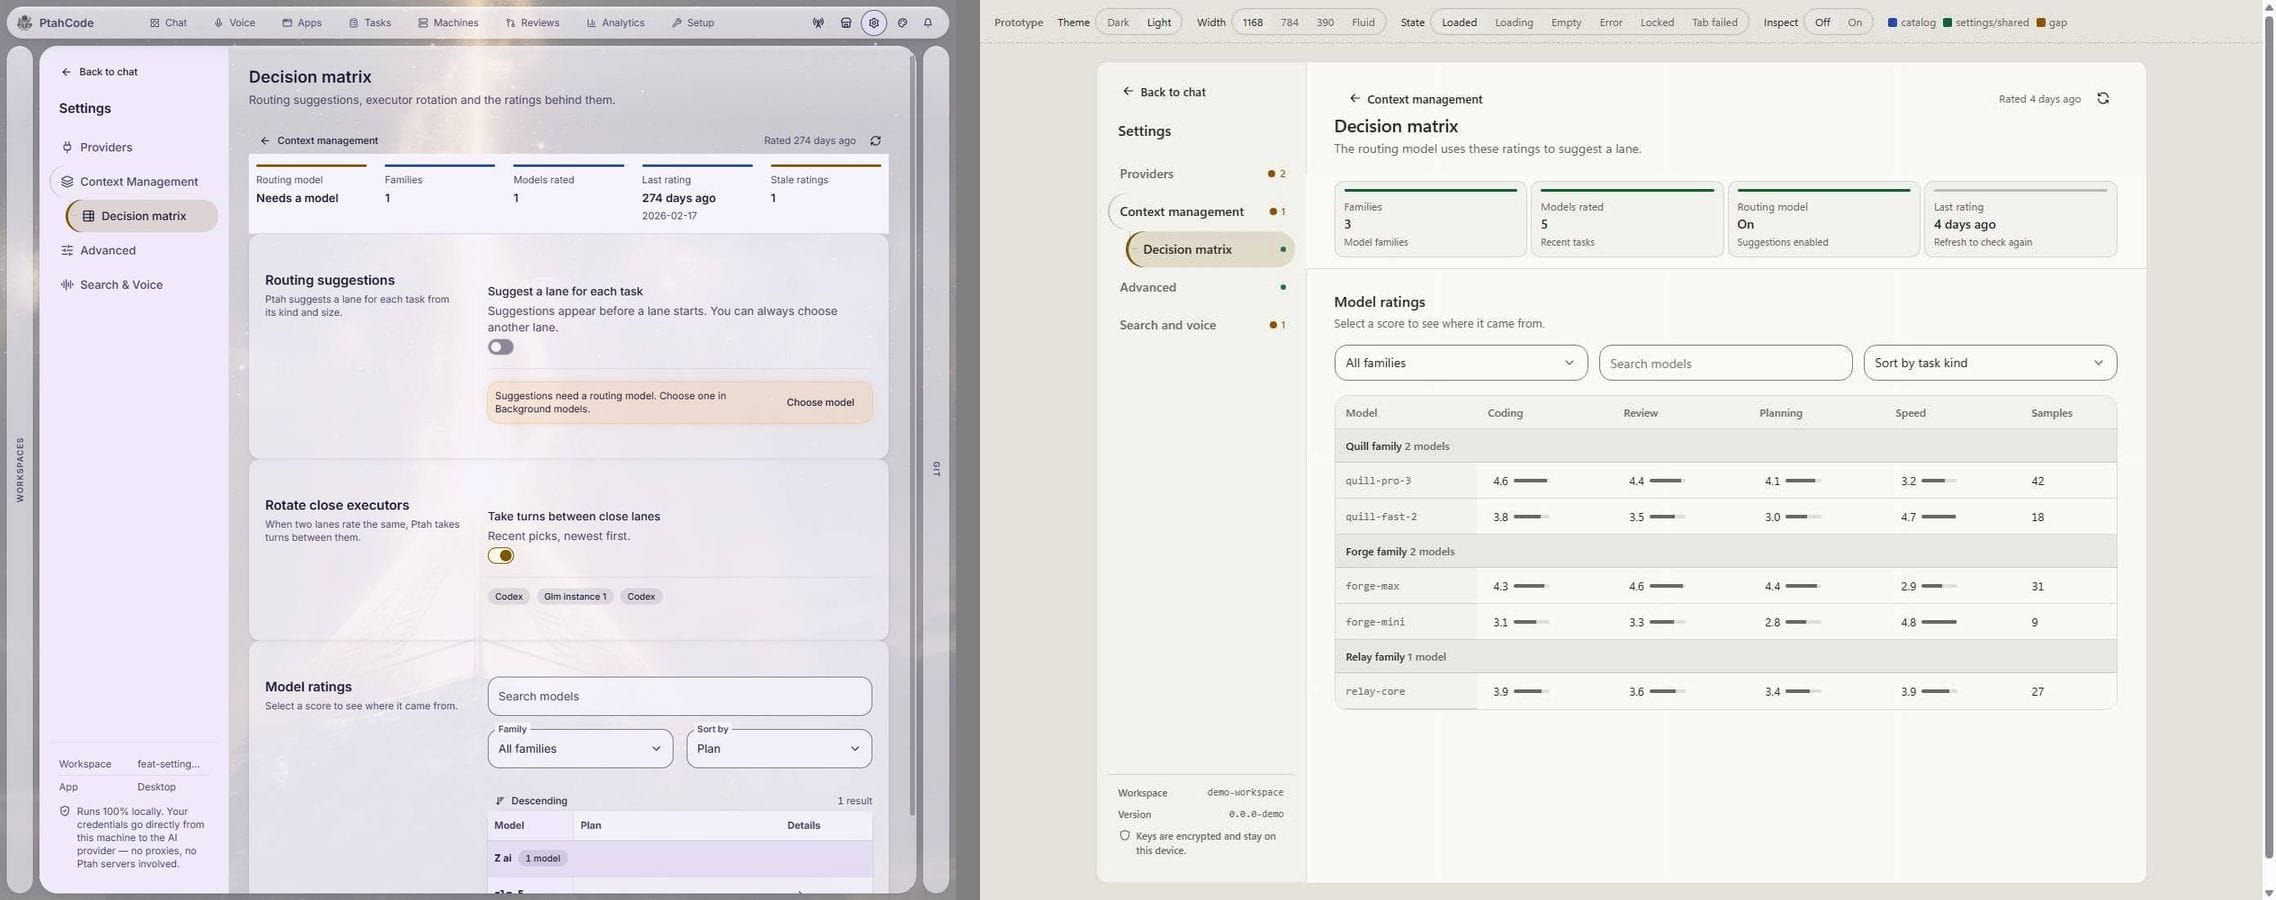
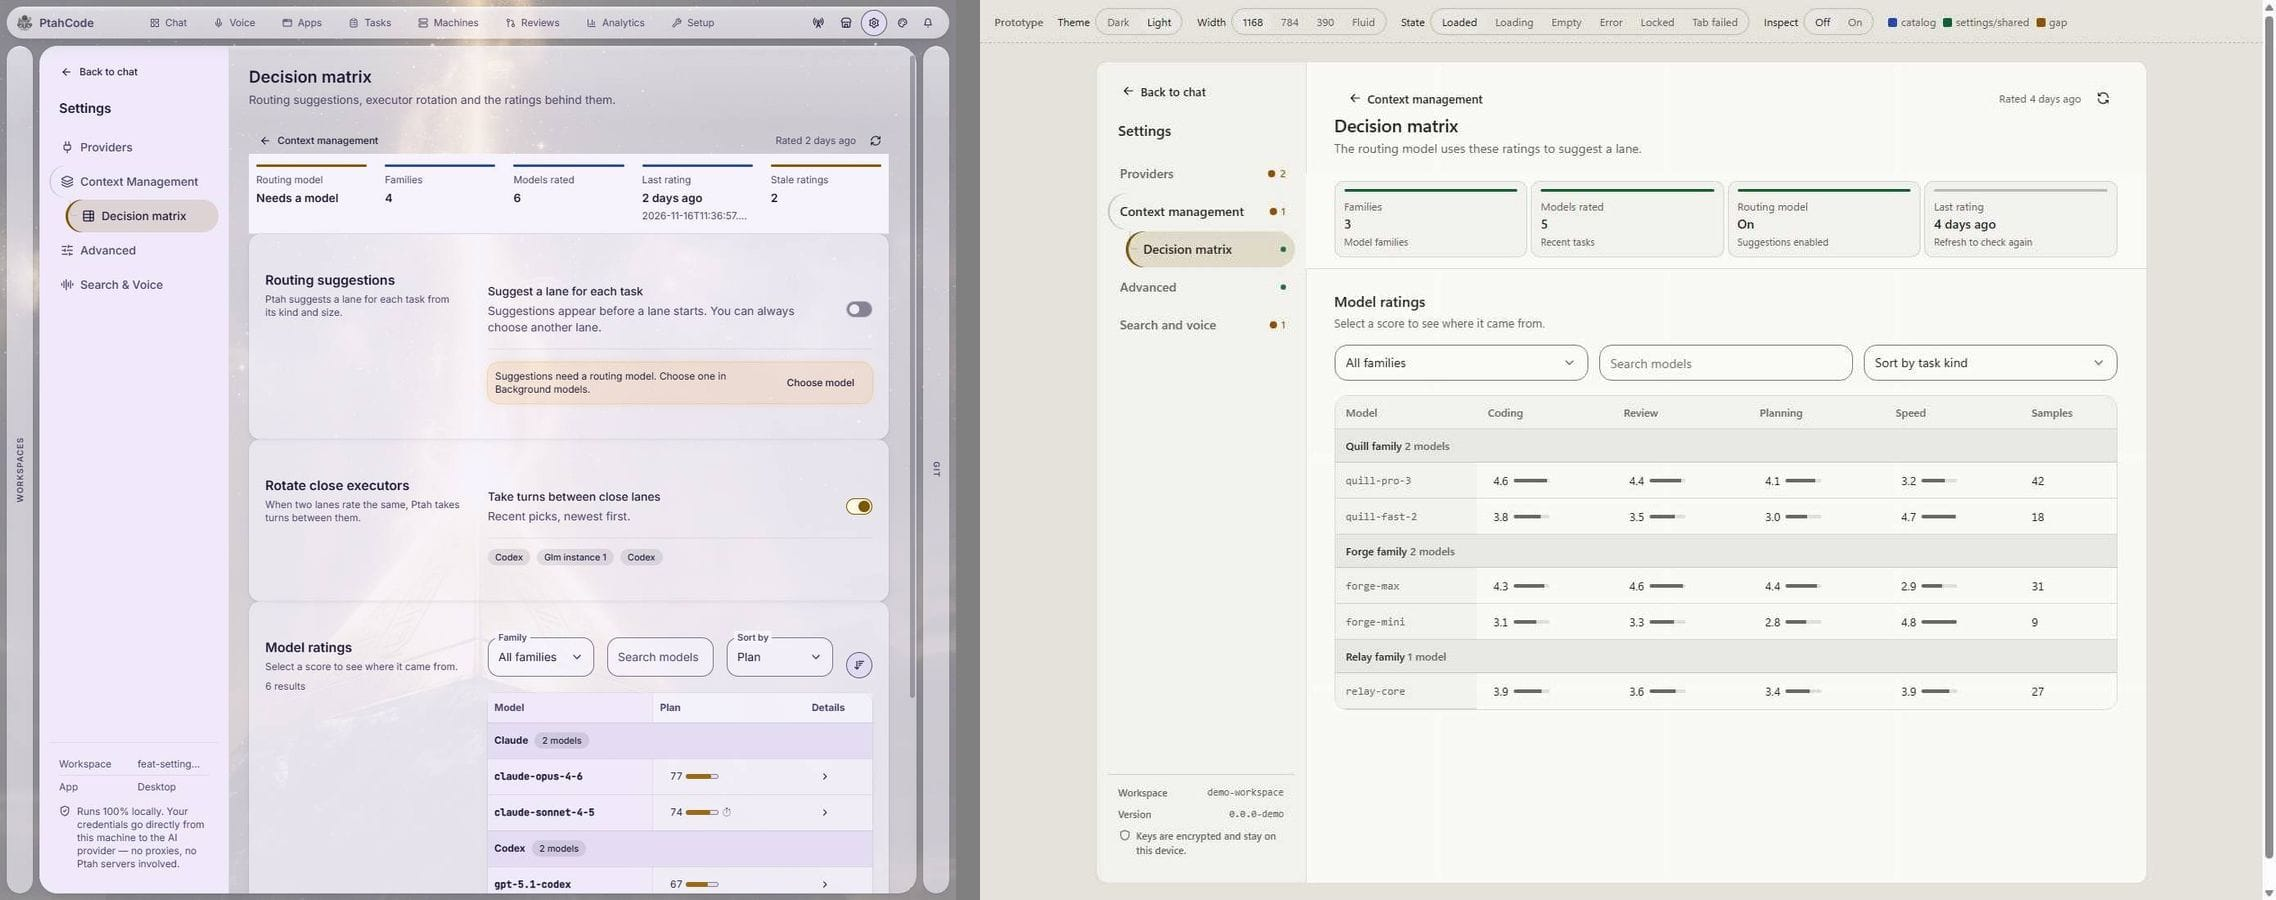
fix(chat): keep the matrix filters in one row and refresh gate shots
The Family, Search and Sort by fields use a smaller column minimum, so
they stay in one row at 1168 px, and the sort direction button is
centered on that row. The gate rule 9 shots are taken again with a
seeded matrix of six models in four families.

diff --git a/libs/frontend/chat/src/lib/settings/ptah-ai/decision-matrix-page.component.ts b/libs/frontend/chat/src/lib/settings/ptah-ai/decision-matrix-page.component.ts
@@ -105,8 +105,12 @@ import { RoutingDisplayNamesStore } from './routing-display-names.store';
         {{ visibleCount() === 1 ? 'result' : 'results' }}
       </p>
       <div class="min-w-0 space-y-[var(--ptah-gap-controls)]">
-        <div class="flex min-w-0 items-end gap-[var(--ptah-gap-field)]">
-          <div ptahFieldGrid class="min-w-0 flex-1">
+        <div class="flex min-w-0 items-center gap-[var(--ptah-gap-field)]">
+          <div
+            ptahFieldGrid
+            class="min-w-0 flex-1"
+            style="--ptah-field-grid-min-sm: 8rem"
+          >
             <ptah-field label="Family">
               <ptah-select
                 label="Filter by family"
